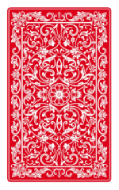
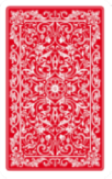
creazione carte, riempito vettore carte, immagini carte ridimensionate, immagine mazzo ridimensionato

diff --git a/blackjack_natalizio/blackjack_natalizio/main.cpp b/blackjack_natalizio/blackjack_natalizio/main.cpp
@@ -34,14 +34,67 @@ void run() {
     Image fish2[5];
     Image dorso = LoadImage("dorsomod (2).png");
    
-    carte[0] = LoadImage("nuovo progetto (1).png");
-    
+    carte[0] = LoadImage("Acuori.png");
+    carte[1] = LoadImage("2cuori.png");
+    carte[2] = LoadImage("3cuori.png");
+    carte[3] = LoadImage("4cuori.png");
+    carte[4] = LoadImage("5cuori.png");
+    carte[5] = LoadImage("6cuori.png");
+    carte[6] = LoadImage("7cuori.png");
+    carte[7] = LoadImage("8cuori.png");
+    carte[8] = LoadImage("9cuori.png");
+    carte[9] = LoadImage("10cuori.png");
+    carte[10] = LoadImage("Jcuori.png");
+    carte[11] = LoadImage("Qcuori.png");
+    carte[12] = LoadImage("Kcuori.png");
+    carte[13] = LoadImage("Aquadri.png");
+    carte[14] = LoadImage("2quadri.png");
+    carte[15] = LoadImage("3quadri.png");
+    carte[16] = LoadImage("4quadri.png");
+    carte[17] = LoadImage("5quadri.png");
+    carte[18] = LoadImage("6quadri.png");
+    carte[19] = LoadImage("7quadri.png");
+    carte[20] = LoadImage("8quadri.png");
+    carte[21] = LoadImage("9quadri.png");
+    carte[22] = LoadImage("10quadri.png");
+    carte[23] = LoadImage("Jquadri.png");
+    carte[24] = LoadImage("Qquadri.png");
+    carte[25] = LoadImage("Kquadri.png");
+    carte[26] = LoadImage("Afiori.png");
+    carte[27] = LoadImage("2fiori.png");
+    carte[28] = LoadImage("3fiori.png");
+    carte[29] = LoadImage("4fiori.png");
+    carte[30] = LoadImage("5fiori.png");
+    carte[31] = LoadImage("6fiori.png");
+    carte[32] = LoadImage("7fiori.png");
+    carte[33] = LoadImage("8fiori.png");
+    carte[34] = LoadImage("9fiori.png");
+    carte[35] = LoadImage("10fiori.png");
+    carte[36] = LoadImage("Jfiori.png");
+    carte[37] = LoadImage("Qfiori.png");
+    carte[38] = LoadImage("Kfiori.png");
+    carte[39] = LoadImage("Apicche.png");
+    carte[40] = LoadImage("2picche.png");
+    carte[41] = LoadImage("3picche.png");
+    carte[42] = LoadImage("4picche.png");
+    carte[43] = LoadImage("5picche.png");
+    carte[44] = LoadImage("6picche.png");
+    carte[45] = LoadImage("7picche.png");
+    carte[46] = LoadImage("8picche.png");
+    carte[47] = LoadImage("9picche.png");
+    carte[48] = LoadImage("10picche.png");
+    carte[49] = LoadImage("Jpicche.png");
+    carte[50] = LoadImage("Qpicche.png");
+    carte[51] = LoadImage("Kpicche.png");
+
 
     fish[0] = LoadImage("fish50.png");
     fish[1] = LoadImage("fish100p.png");
-    fish[4] = LoadImage("fish2.png");
+    fish[2] = LoadImage("fish100p.png");
+    fish[3] = LoadImage("fish 1000.png");
+    fish[4] = LoadImage("fish100p.png");
 
-    fish2[4] = LoadImage("fish2.1.png");
+   fish2[4] = LoadImage("fish2.1.png");
     fish2[0] = LoadImage("fish50.1.png");
 
     
@@ -85,10 +138,10 @@ void run() {
         /*carta(xc, yc);
         carta(xc + 40, yc);
         carta(xc, yc-518);*/
+        DrawImage(xc+8, yc - 508, carte[0]); 
         DrawImage(xc, yc, carte[1]);
         DrawImage(xc + 40, yc, carte[2]);
-        DrawImage(xc, yc - 518, carte[3]);
-        DrawImage(xc, yc - 518, carte[0]);        
+        DrawImage(xc+40, yc - 508, carte[3]);
        /* carta(xc + 40, yc-518);*/
         
         /*dorsocarta(IMM2D_WIDTH - 400, 50);*/
@@ -108,11 +161,33 @@ void run() {
         bool statoDelMouseDestro = false; //false=rilasciato
 
         while (true) {
+
+            DrawRectangle(50, 20, 350, 70, colortav, Black);
+            DrawCircle(50, 55, 35, colortav, Black);
+            DrawCircle(50, 55, 25, colore, Black);
+            DrawCircle(400, 55, 35, colortav, Black);
+            DrawCircle(400, 55, 25, colore, Black);
+            DrawRectangle(50, 21, 352, 68, colortav, colortav);
+            DrawRectangle(50, 30, 352, 50, colortav, Black);
+            DrawRectangle(50, 31, 352, 48, colore, colore);
+
+
+            DrawRectangle(50, 110, 350, 70, colortav, Black);
+            DrawCircle(50, 145, 35, colortav, Black);
+            DrawCircle(50, 145, 25, colore, Black);
+            DrawCircle(400, 145, 35, colortav, Black);
+            DrawCircle(400, 145, 25, colore, Black);
+            DrawRectangle(50, 111, 352, 68, colortav, colortav);
+            DrawRectangle(50, 120, 352, 50, colortav, Black);
+            DrawRectangle(50, 121, 352, 48, colore, colore);
+            DrawString(50, 123, "Puntata:", "times new roman", 30, White, false);
+            DrawString(50, 32, "Saldo:", "times new roman", 30, White, false);
+
             /*centro*/
             DrawCircle(IMM2D_WIDTH / 2, 952, 65, colorefish, Black);
             if (saldo<10000)
             {
-                DrawImage(IMM2D_WIDTH / 2 - 66, 887, fish2[4]);
+                DrawImage(IMM2D_WIDTH / 2 - 66, 887, fish[3]);
             }
             else
             {
@@ -126,17 +201,17 @@ void run() {
             }
             else
             {
-                DrawImage(IMM2D_WIDTH / 2 - 311, 955 - 94, fish[0]);
+               DrawImage(IMM2D_WIDTH / 2 + 210, 955 - 90, fish[0]);
             }
             /*centrosx*/
             DrawCircle(IMM2D_WIDTH / 2 - 138, 955 - 13, 55, colorefish, Black);
             if (saldo < 100)
             {
-               /* DrawImage(IMM2D_WIDTH / 2 - 311, 955 - 94, fish2[1]);*/
+               DrawImage(IMM2D_WIDTH / 2 - 311, 955 - 94, fish2[1]);
             }
             else
             {
-                DrawImage(IMM2D_WIDTH / 2 - 311, 955 - 94, fish[1]);
+                DrawImage(IMM2D_WIDTH / 2 - 305, 955 - 90, fish[1]);
             }
             //centrodx
             DrawCircle(IMM2D_WIDTH / 2 + 138, 955 - 13, 55, colorefish, Black);
